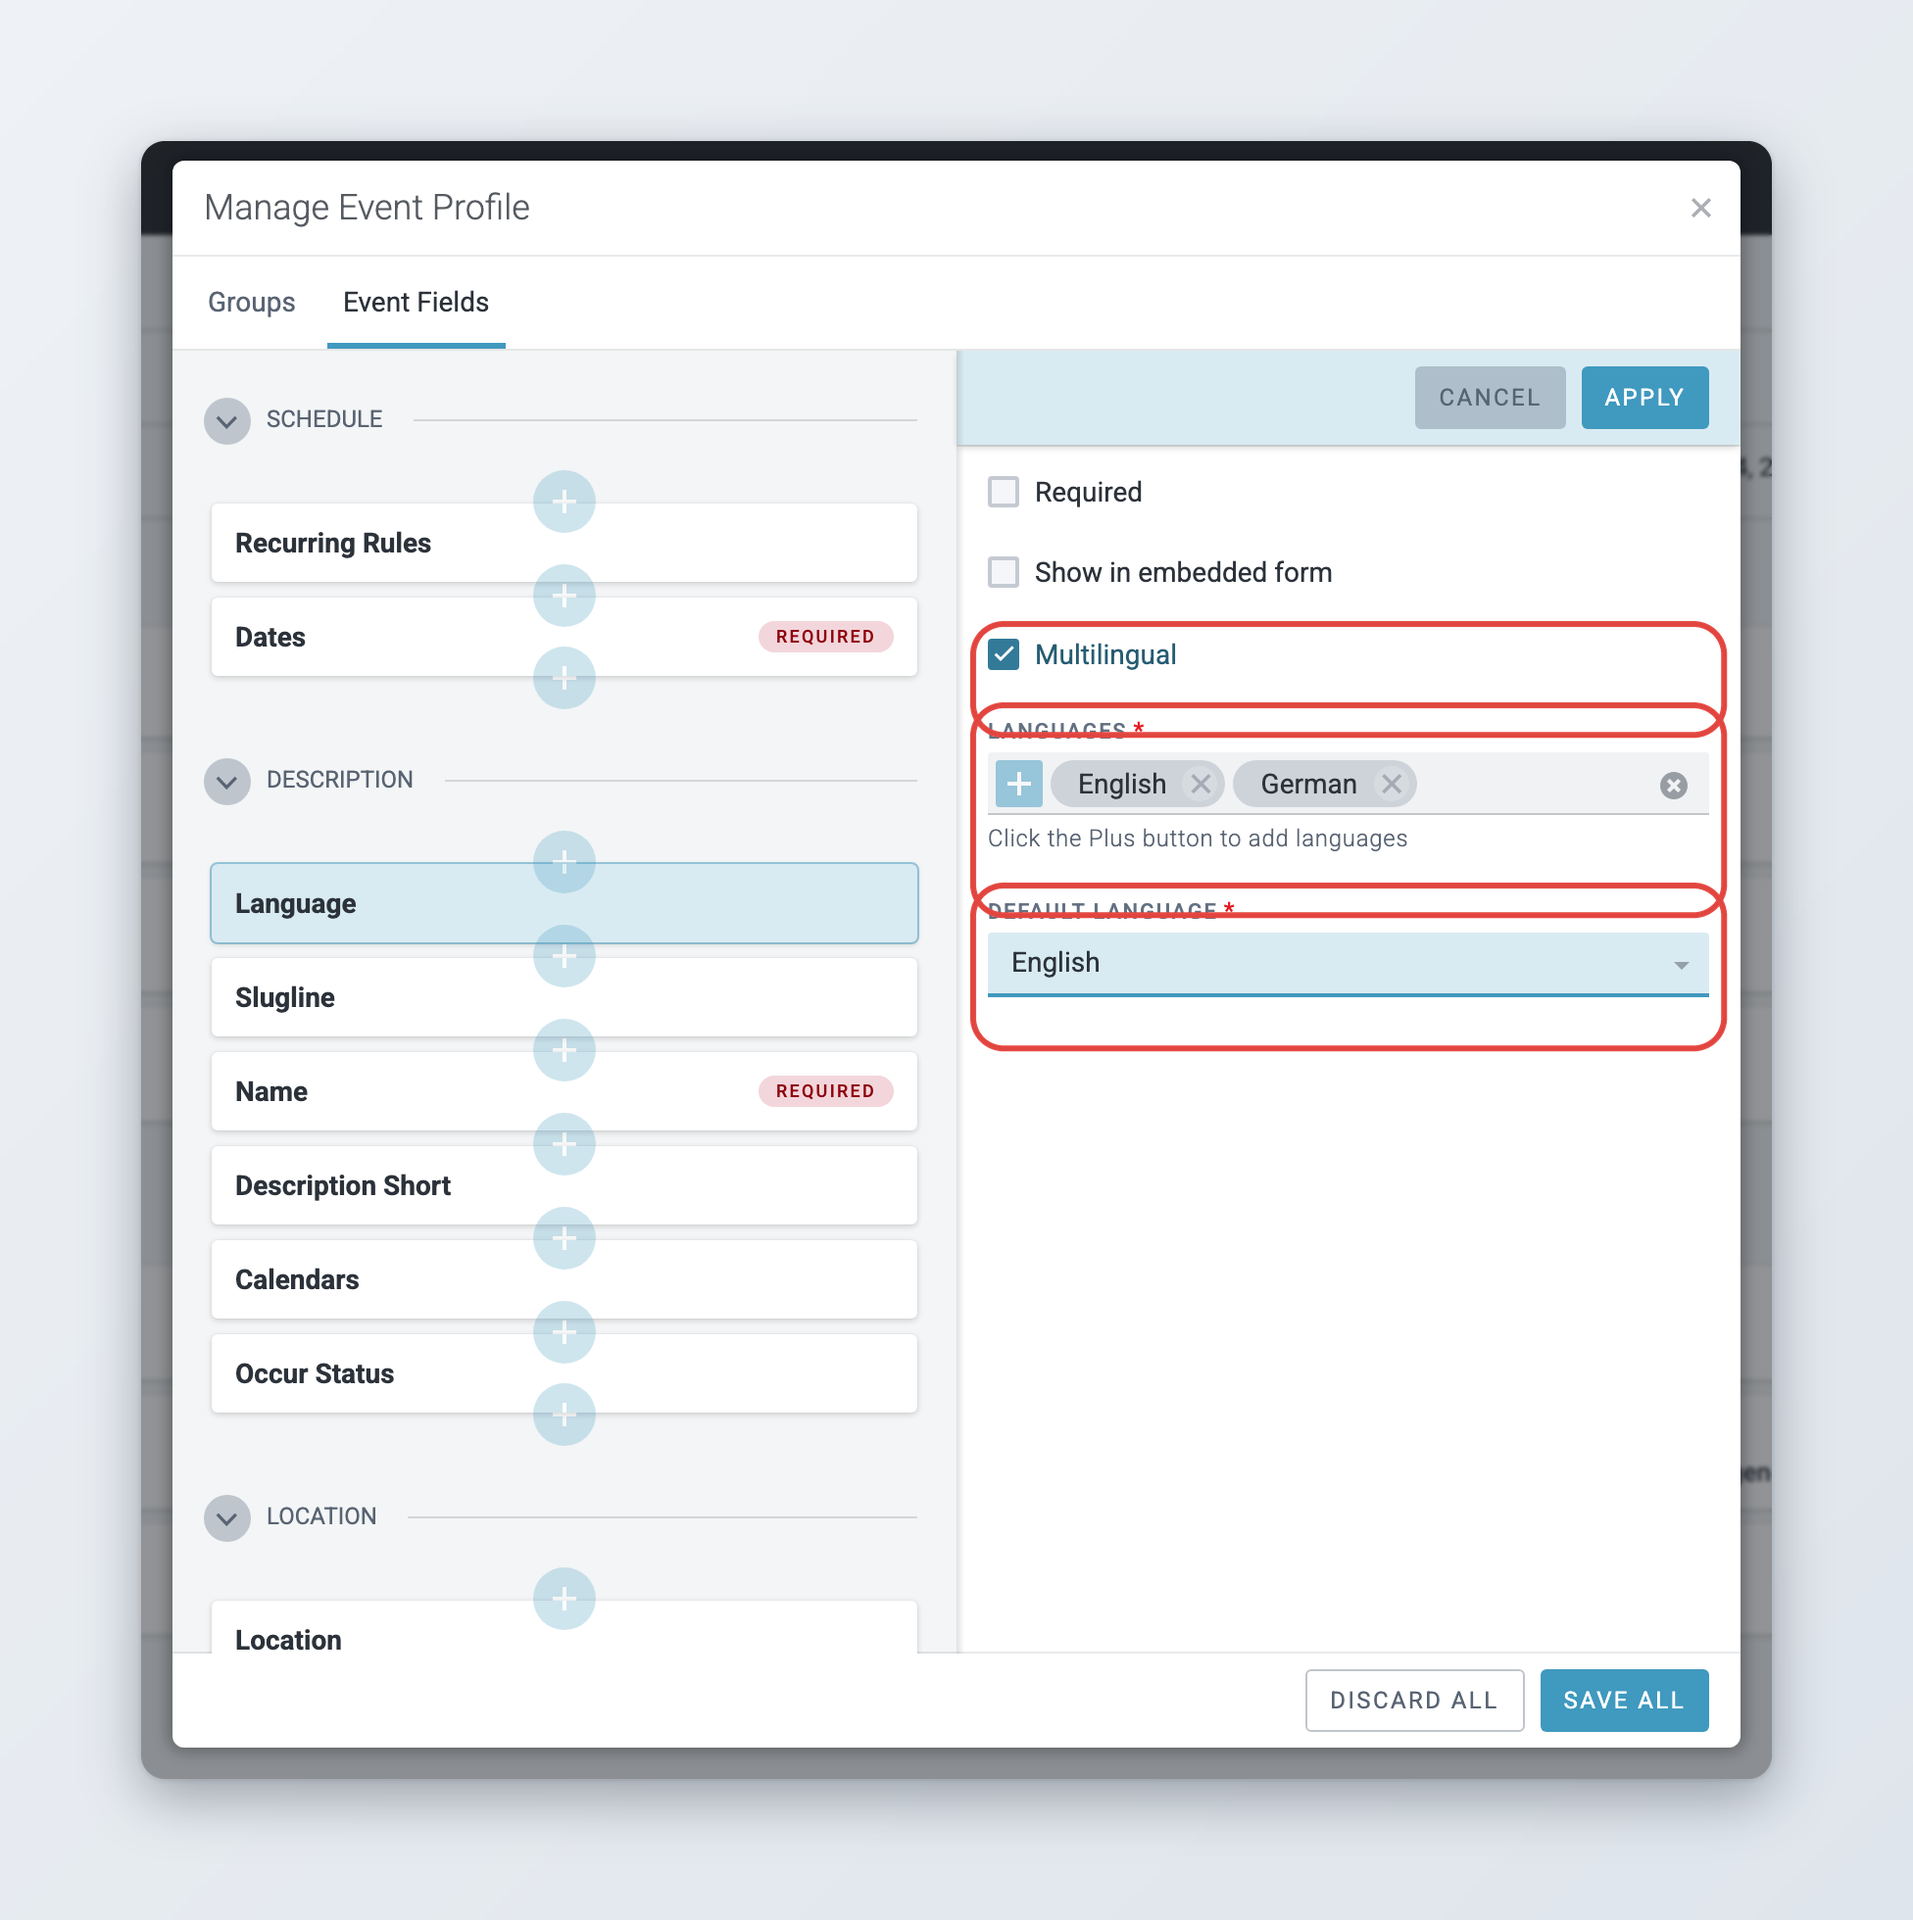
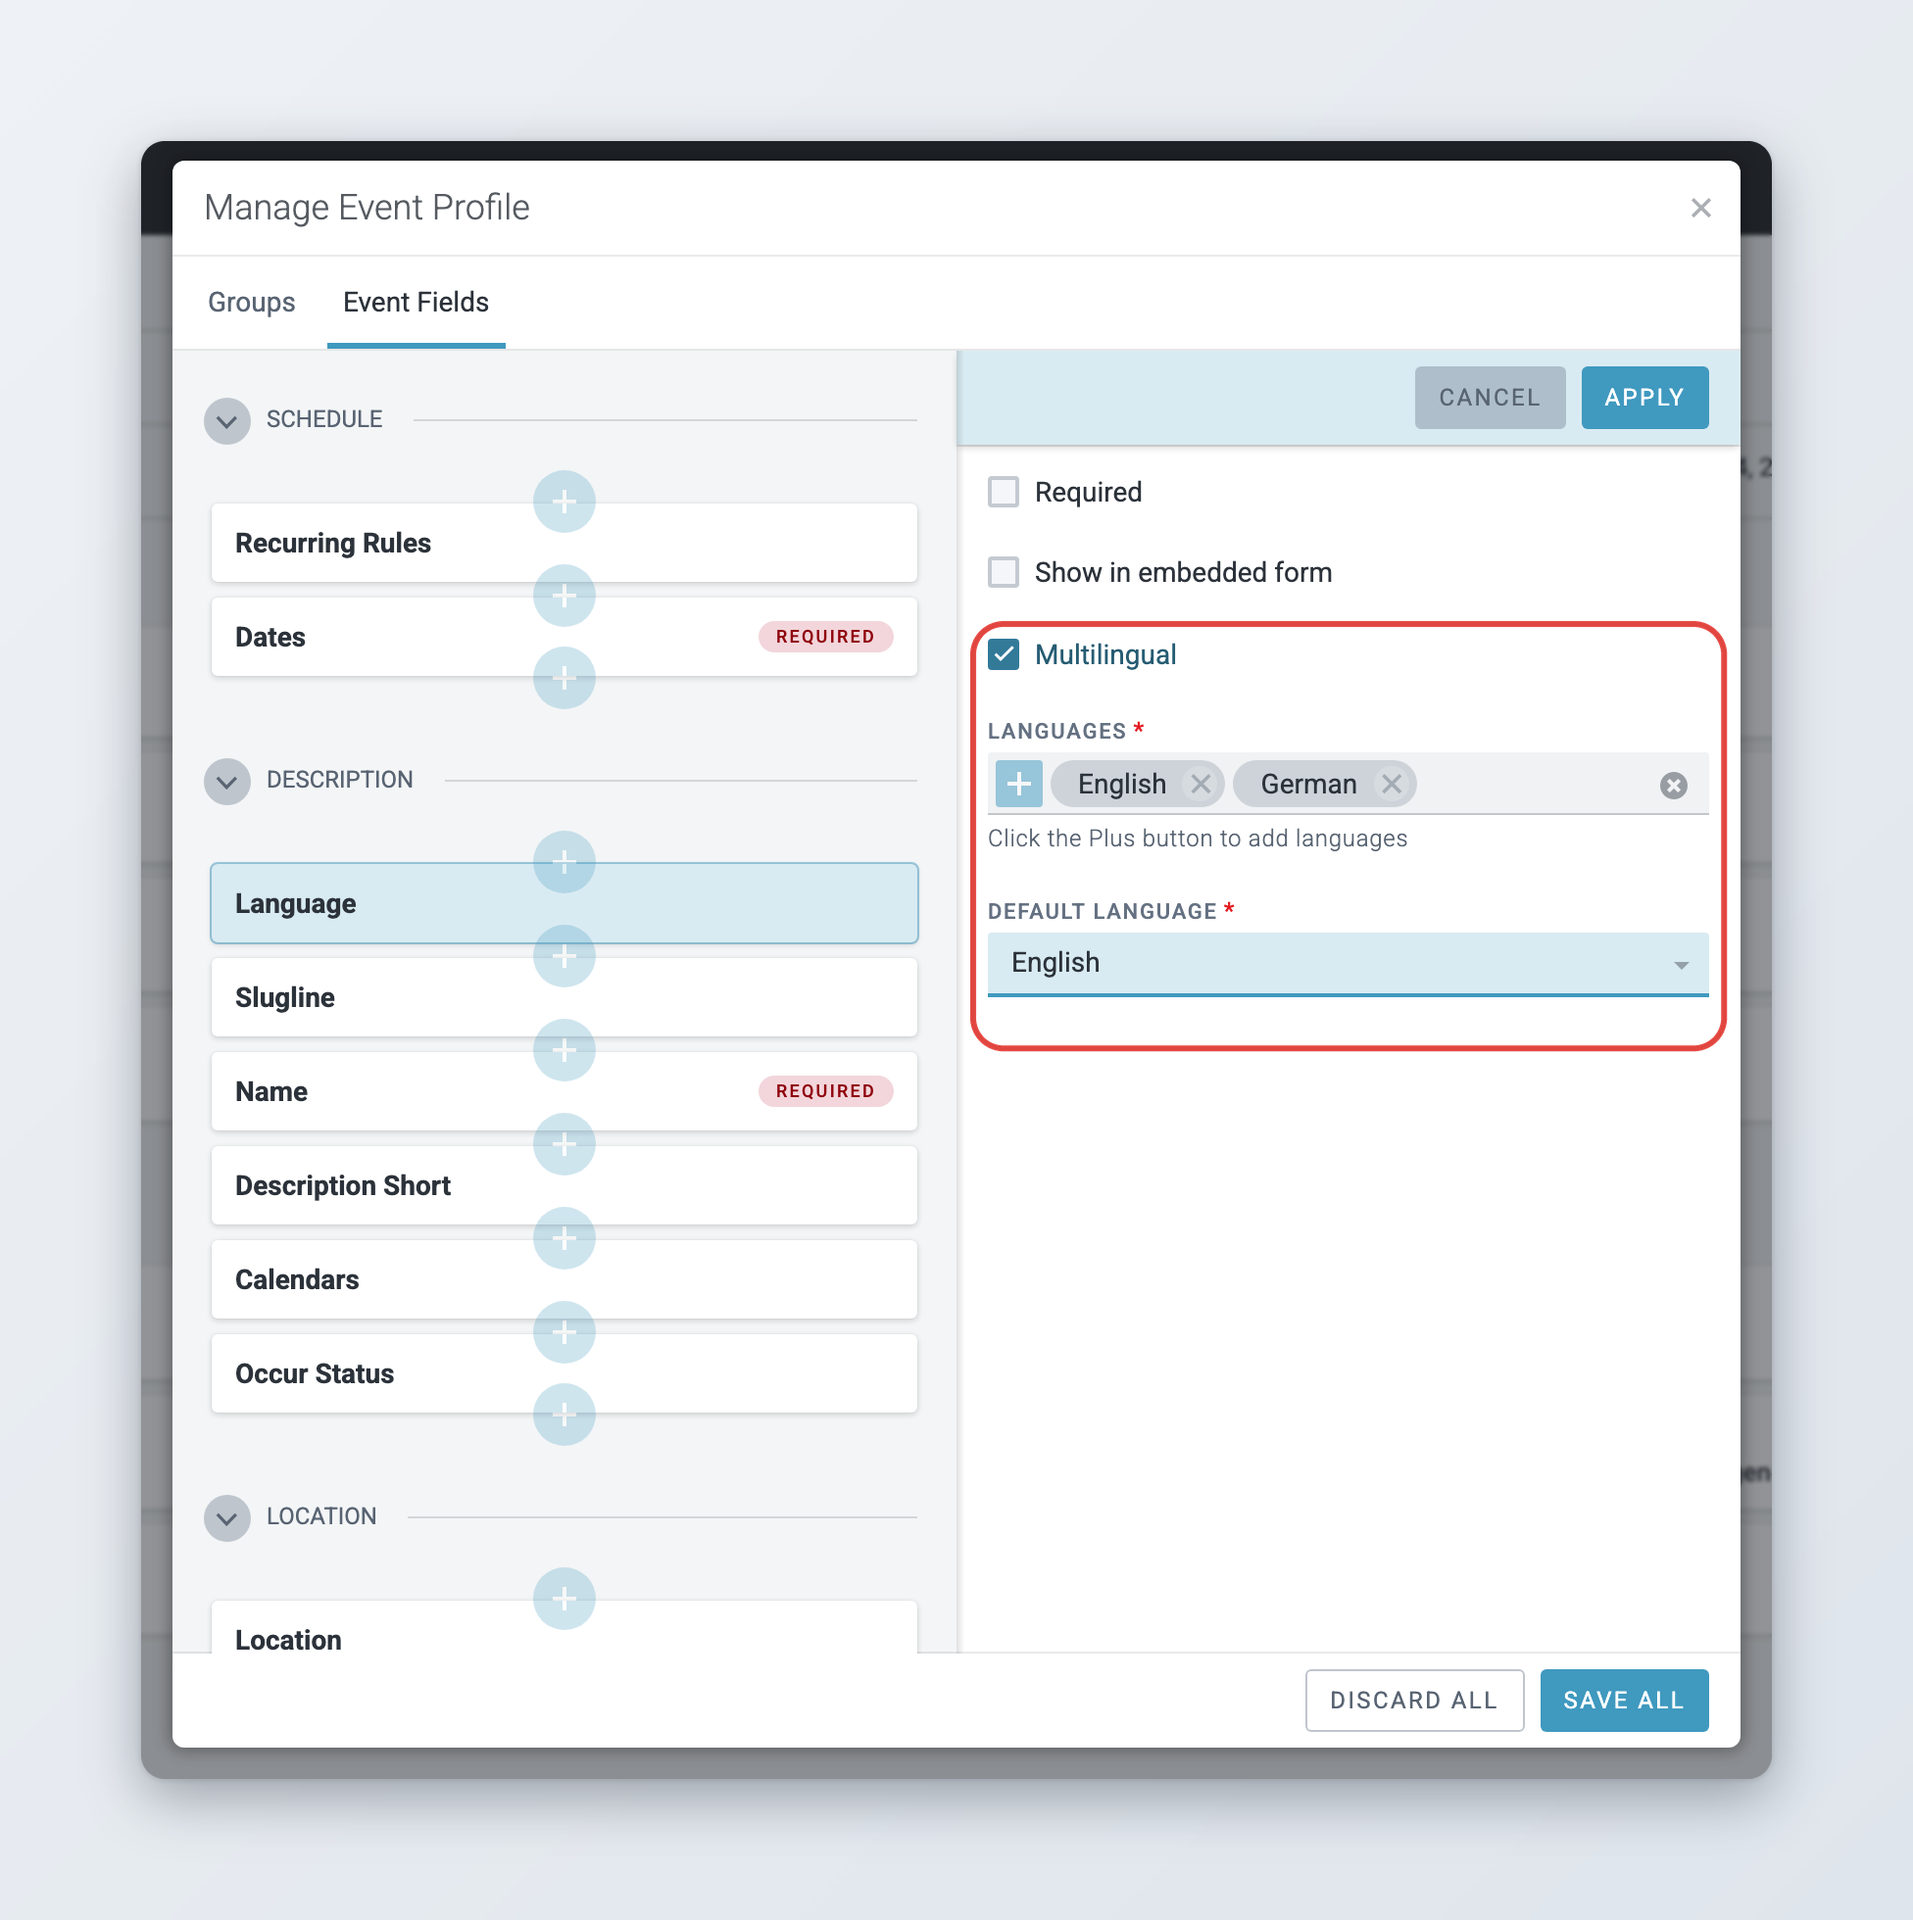
[SDESK-8023] Keep neighbouring screenshot outlines apart and simplify the authoring overview
Outlines whose controls sit closer than twice the outline's reach grow less towards each other and keep a small gap; when there is no room at all the styling script warns and the manifest boxes the group as one. The authoring overview is cropped to the editor pane with badges on the thin bars and callouts on the field areas, like the screen overview.

Changed region(s): [[0.5, 0.4668, 0.9062, 0.498], [0.5312, 0.3735, 0.9062, 0.4046]]

diff --git a/tools/screenshots/style.py b/tools/screenshots/style.py
@@ -28,6 +28,9 @@ CONTACT_SHADOW_OPACITY = 0.14
 OUTLINE_WIDTH = 3
 OUTLINE_GAP = 6
 OUTLINE_RADIUS = 8
+# Least space between two neighbouring outlines. Controls closer than twice the
+# outline's reach get outlines that grow less on their facing sides.
+OUTLINE_SEPARATION = 4
 BADGE_RADIUS = 14
 BADGE_RING = 2
 BADGE_FONT_SIZE = 15
@@ -85,17 +88,21 @@ def draw_supersampled(canvas, bounds, paint):
     canvas.alpha_composite(overlay, (left, top))
 
 
-def draw_outline(canvas, box, s):
+def draw_outline(canvas, box, s, grow=None):
+    """grow: how far the outline reaches outside box on each side, in 1x pixels
+    as (left, top, right, bottom). Left out, it is the gap plus the stroke."""
     x, y, w, h = box
     width = OUTLINE_WIDTH * s
     # Pillow strokes inward from the rectangle, so the stroke is added to the gap.
-    grow = (OUTLINE_GAP + OUTLINE_WIDTH) * s
-    rect = (x - grow, y - grow, x + w + grow, y + h + grow)
+    reach = OUTLINE_GAP + OUTLINE_WIDTH
+    left, top, right, bottom = (g * s for g in (grow or (reach,) * 4))
+    rect = (x - left, y - top, x + w + right, y + h + bottom)
+    radius = (OUTLINE_RADIUS + min(reach, left / s, top / s, right / s, bottom / s)) * s
 
     def paint(draw, t):
         draw.rounded_rectangle(
             t(*rect),
-            radius=(OUTLINE_RADIUS + OUTLINE_GAP + OUTLINE_WIDTH) * s * SUPERSAMPLE,
+            radius=radius * SUPERSAMPLE,
             outline=ACCENT,
             width=round(width * SUPERSAMPLE),
         )
@@ -135,10 +142,48 @@ def draw_badge(canvas, box, label, s, center=None):
     draw.text((cx - (left + right) / 2, cy - (top + bottom) / 2), text, font=font, fill=(255, 255, 255))
 
 
-def draw_highlights(image, highlights, s, origin=(0, 0)):
+def outline_reach(boxes, s, warn=lambda message: None):
+    """Per-outline reach (left, top, right, bottom) in 1x pixels. Two outlines
+    whose controls are closer than twice the default reach would overlap, so both
+    grow less towards each other and keep OUTLINE_SEPARATION between them. When
+    even that leaves no room for the stroke, the outlines stay as they are and a
+    warning says so: the manifest should box the group as one, or use a badge."""
+    reach = OUTLINE_GAP + OUTLINE_WIDTH
+    grows = [[reach] * 4 for _ in boxes]
+    for i in range(len(boxes)):
+        for j in range(i + 1, len(boxes)):
+            a, b = boxes[i], boxes[j]
+            if a == b:
+                continue
+            # Positive gaps in 1x pixels along each axis; negative means overlap.
+            gap_x = max(b[0] - (a[0] + a[2]), a[0] - (b[0] + b[2])) / s
+            gap_y = max(b[1] - (a[1] + a[3]), a[1] - (b[1] + b[3])) / s
+            gap = max(gap_x, gap_y)
+            if gap >= 2 * reach + OUTLINE_SEPARATION:
+                continue
+            if gap < 0:
+                warn(f"outlines {i + 1} and {j + 1} overlap; box the group as one or use a badge")
+                continue
+            # Index of the facing side on a and on b: 0 left, 1 top, 2 right, 3 bottom.
+            if gap_x >= gap_y:
+                a_side, b_side = (2, 0) if b[0] >= a[0] + a[2] else (0, 2)
+            else:
+                a_side, b_side = (3, 1) if b[1] >= a[1] + a[3] else (1, 3)
+            each = (gap - OUTLINE_SEPARATION) / 2
+            if each < OUTLINE_WIDTH:
+                warn(f"outlines {i + 1} and {j + 1} have no room between them; box the group as one or use a badge")
+                continue
+            grows[i][a_side] = min(grows[i][a_side], each)
+            grows[j][b_side] = min(grows[j][b_side], each)
+    return grows
+
+
+def draw_highlights(image, highlights, s, origin=(0, 0), warn=lambda message: None):
     """Draw highlights on image. Boxes are in screenshot pixels; origin is where
     the screenshot's top-left corner sits on image."""
     ox, oy = origin
+    outlines = [item for item in highlights if item.get("style", "outline") == "outline"]
+    grows = outline_reach([tuple(item["box"]) for item in outlines], s, warn)
     for item in highlights:
         x, y, w, h = item["box"]
         box, kind = (x + ox, y + oy, w, h), item.get("style", "outline")
@@ -148,7 +193,7 @@ def draw_highlights(image, highlights, s, origin=(0, 0)):
         if kind == "badge":
             draw_badge(image, box, item.get("label"), s, center)
         elif kind == "outline":
-            draw_outline(image, box, s)
+            draw_outline(image, box, s, grows[outlines.index(item)])
         else:
             raise ValueError(f"unknown highlight style {kind!r}")
 
@@ -177,7 +222,7 @@ def shadow_layer(canvas_size, mask, position, offset, blur, opacity):
     return layer.filter(ImageFilter.GaussianBlur(blur))
 
 
-def style_screenshot(image, highlights=(), preset="default", scale=2):
+def style_screenshot(image, highlights=(), preset="default", scale=2, warn=lambda message: None):
     s = scale
     shot = image.convert("RGBA")
 
@@ -202,7 +247,7 @@ def style_screenshot(image, highlights=(), preset="default", scale=2):
     # touches the screenshot's edge extends into the padding. Drawn on the
     # screenshot itself it would be cut off at that edge and by the rounded corners.
     canvas = canvas.convert("RGBA")
-    draw_highlights(canvas, highlights, s, position)
+    draw_highlights(canvas, highlights, s, position, warn)
     return canvas.convert("RGB")
 
 
@@ -216,7 +261,13 @@ def main(argv=None):
     args = parser.parse_args(argv)
 
     with Image.open(args.input) as image:
-        result = style_screenshot(image, load_highlights(args.highlights), args.preset, args.scale)
+        result = style_screenshot(
+            image,
+            load_highlights(args.highlights),
+            args.preset,
+            args.scale,
+            warn=lambda message: print(f"warning: {message}", file=sys.stderr),
+        )
     result.save(args.output, "PNG", optimize=True)
 
 

diff --git a/tools/screenshots/style_all.py b/tools/screenshots/style_all.py
@@ -53,7 +53,11 @@ def style_tree(raw_dir, styled_dir, scale, force):
         output.parent.mkdir(parents=True, exist_ok=True)
         with Image.open(png) as image:
             result = style.style_screenshot(
-                image, style.load_highlights(highlights_path), read_preset(meta_path), scale
+                image,
+                style.load_highlights(highlights_path),
+                read_preset(meta_path),
+                scale,
+                warn=lambda message: print(f"warning: {png}: {message}", file=sys.stderr),
             )
         result.save(output, "PNG", optimize=True)
         print(f"styled {output}")

diff --git a/tools/screenshots/README.md b/tools/screenshots/README.md
@@ -45,7 +45,7 @@ A JSON array; coordinates are in the input image's pixels (2x space for 2x captu
 ]
 ```
 
-- `outline`: a red rounded rectangle around `box`, with a small gap so it does not touch the element. Highlights are drawn on the framed image, so an outline around an element at the screenshot's edge runs into the padding instead of being cut off.
+- `outline`: a red rounded rectangle around `box`, with a small gap so it does not touch the element. Highlights are drawn on the framed image, so an outline around an element at the screenshot's edge runs into the padding instead of being cut off. Two outlines whose elements are closer than twice the outline's reach grow less towards each other and keep a small gap; when there is no room even for the stroke the script warns, and the manifest should box the group as one (a nested list of selectors) or use a badge.
 - `badge`: a red numbered circle on the top-left corner of `box`. Pair it with an `outline` on the same box to get a numbered callout, or use it alone to mark an area. Badges are kept inside the framed image.
 - `center` (badges only, optional): `[x, y]` in the same pixel space as `box`. When present the badge is centred there instead of on the box corner, so it can sit outside a small control (above or below it) without covering it. `box` still names the element the badge refers to. Without `center` the behaviour is unchanged.
 

diff --git a/superdesk-user-guide/content-management/creating-and-editing-content-items/README.md b/superdesk-user-guide/content-management/creating-and-editing-content-items/README.md
@@ -141,7 +141,7 @@ Every item you have open appears as a tab in the opened-items bar at the bottom 
 
 The editing screen, also called authoring, opens to the right of the list.
 
-<figure><img src="../../../.gitbook/assets/creating-and-editing-content-items/authoring-overview.png" alt="The authoring screen with the top bar, the status bar, the header fields, the content fields and the widget bar numbered 1 to 5" width="1110"><figcaption><p>The parts of the authoring screen</p></figcaption></figure>
+<figure><img src="../../../.gitbook/assets/creating-and-editing-content-items/authoring-overview.png" alt="The authoring screen with the top bar, the status bar, the header fields, the content fields and the widget bar numbered 1 to 5" width="629"><figcaption><p>The parts of the authoring screen</p></figcaption></figure>
 
 1. The **top bar**, with the item's desk and stage, the action buttons and the **Send to / Publish** button.
 2. The **status bar**, with the item's state, who created it, when it was last changed, and the view controls.
